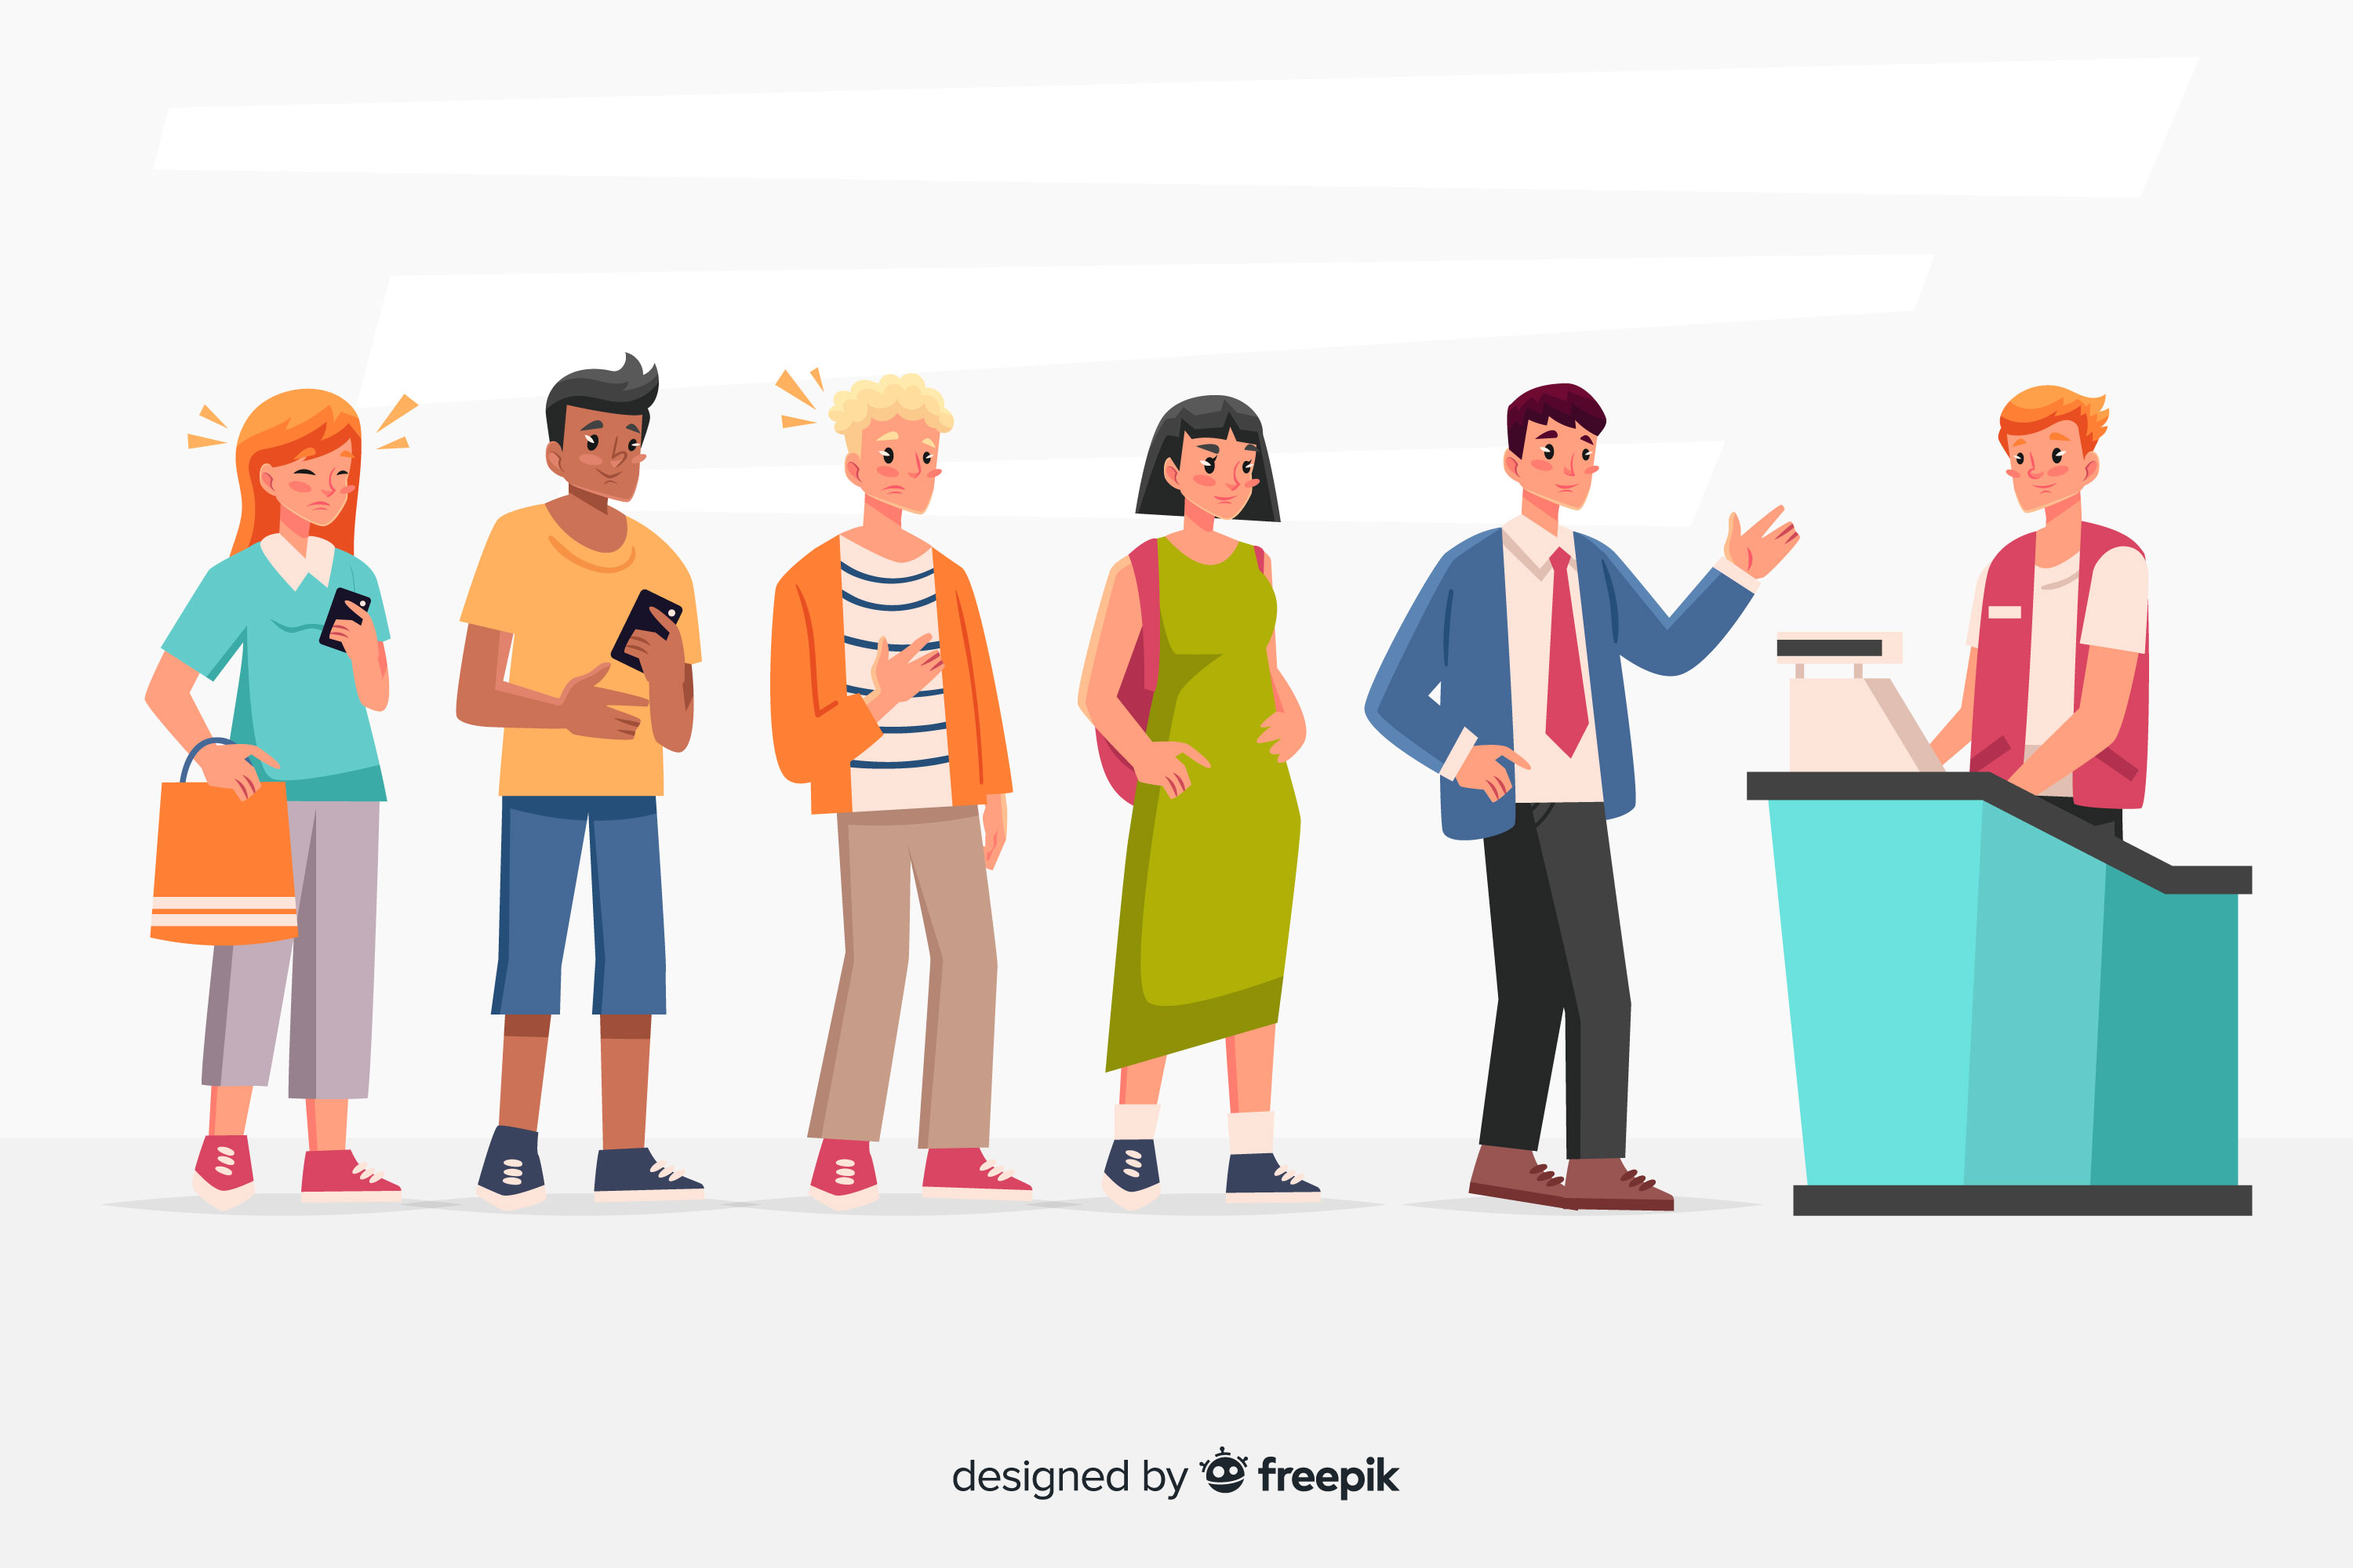
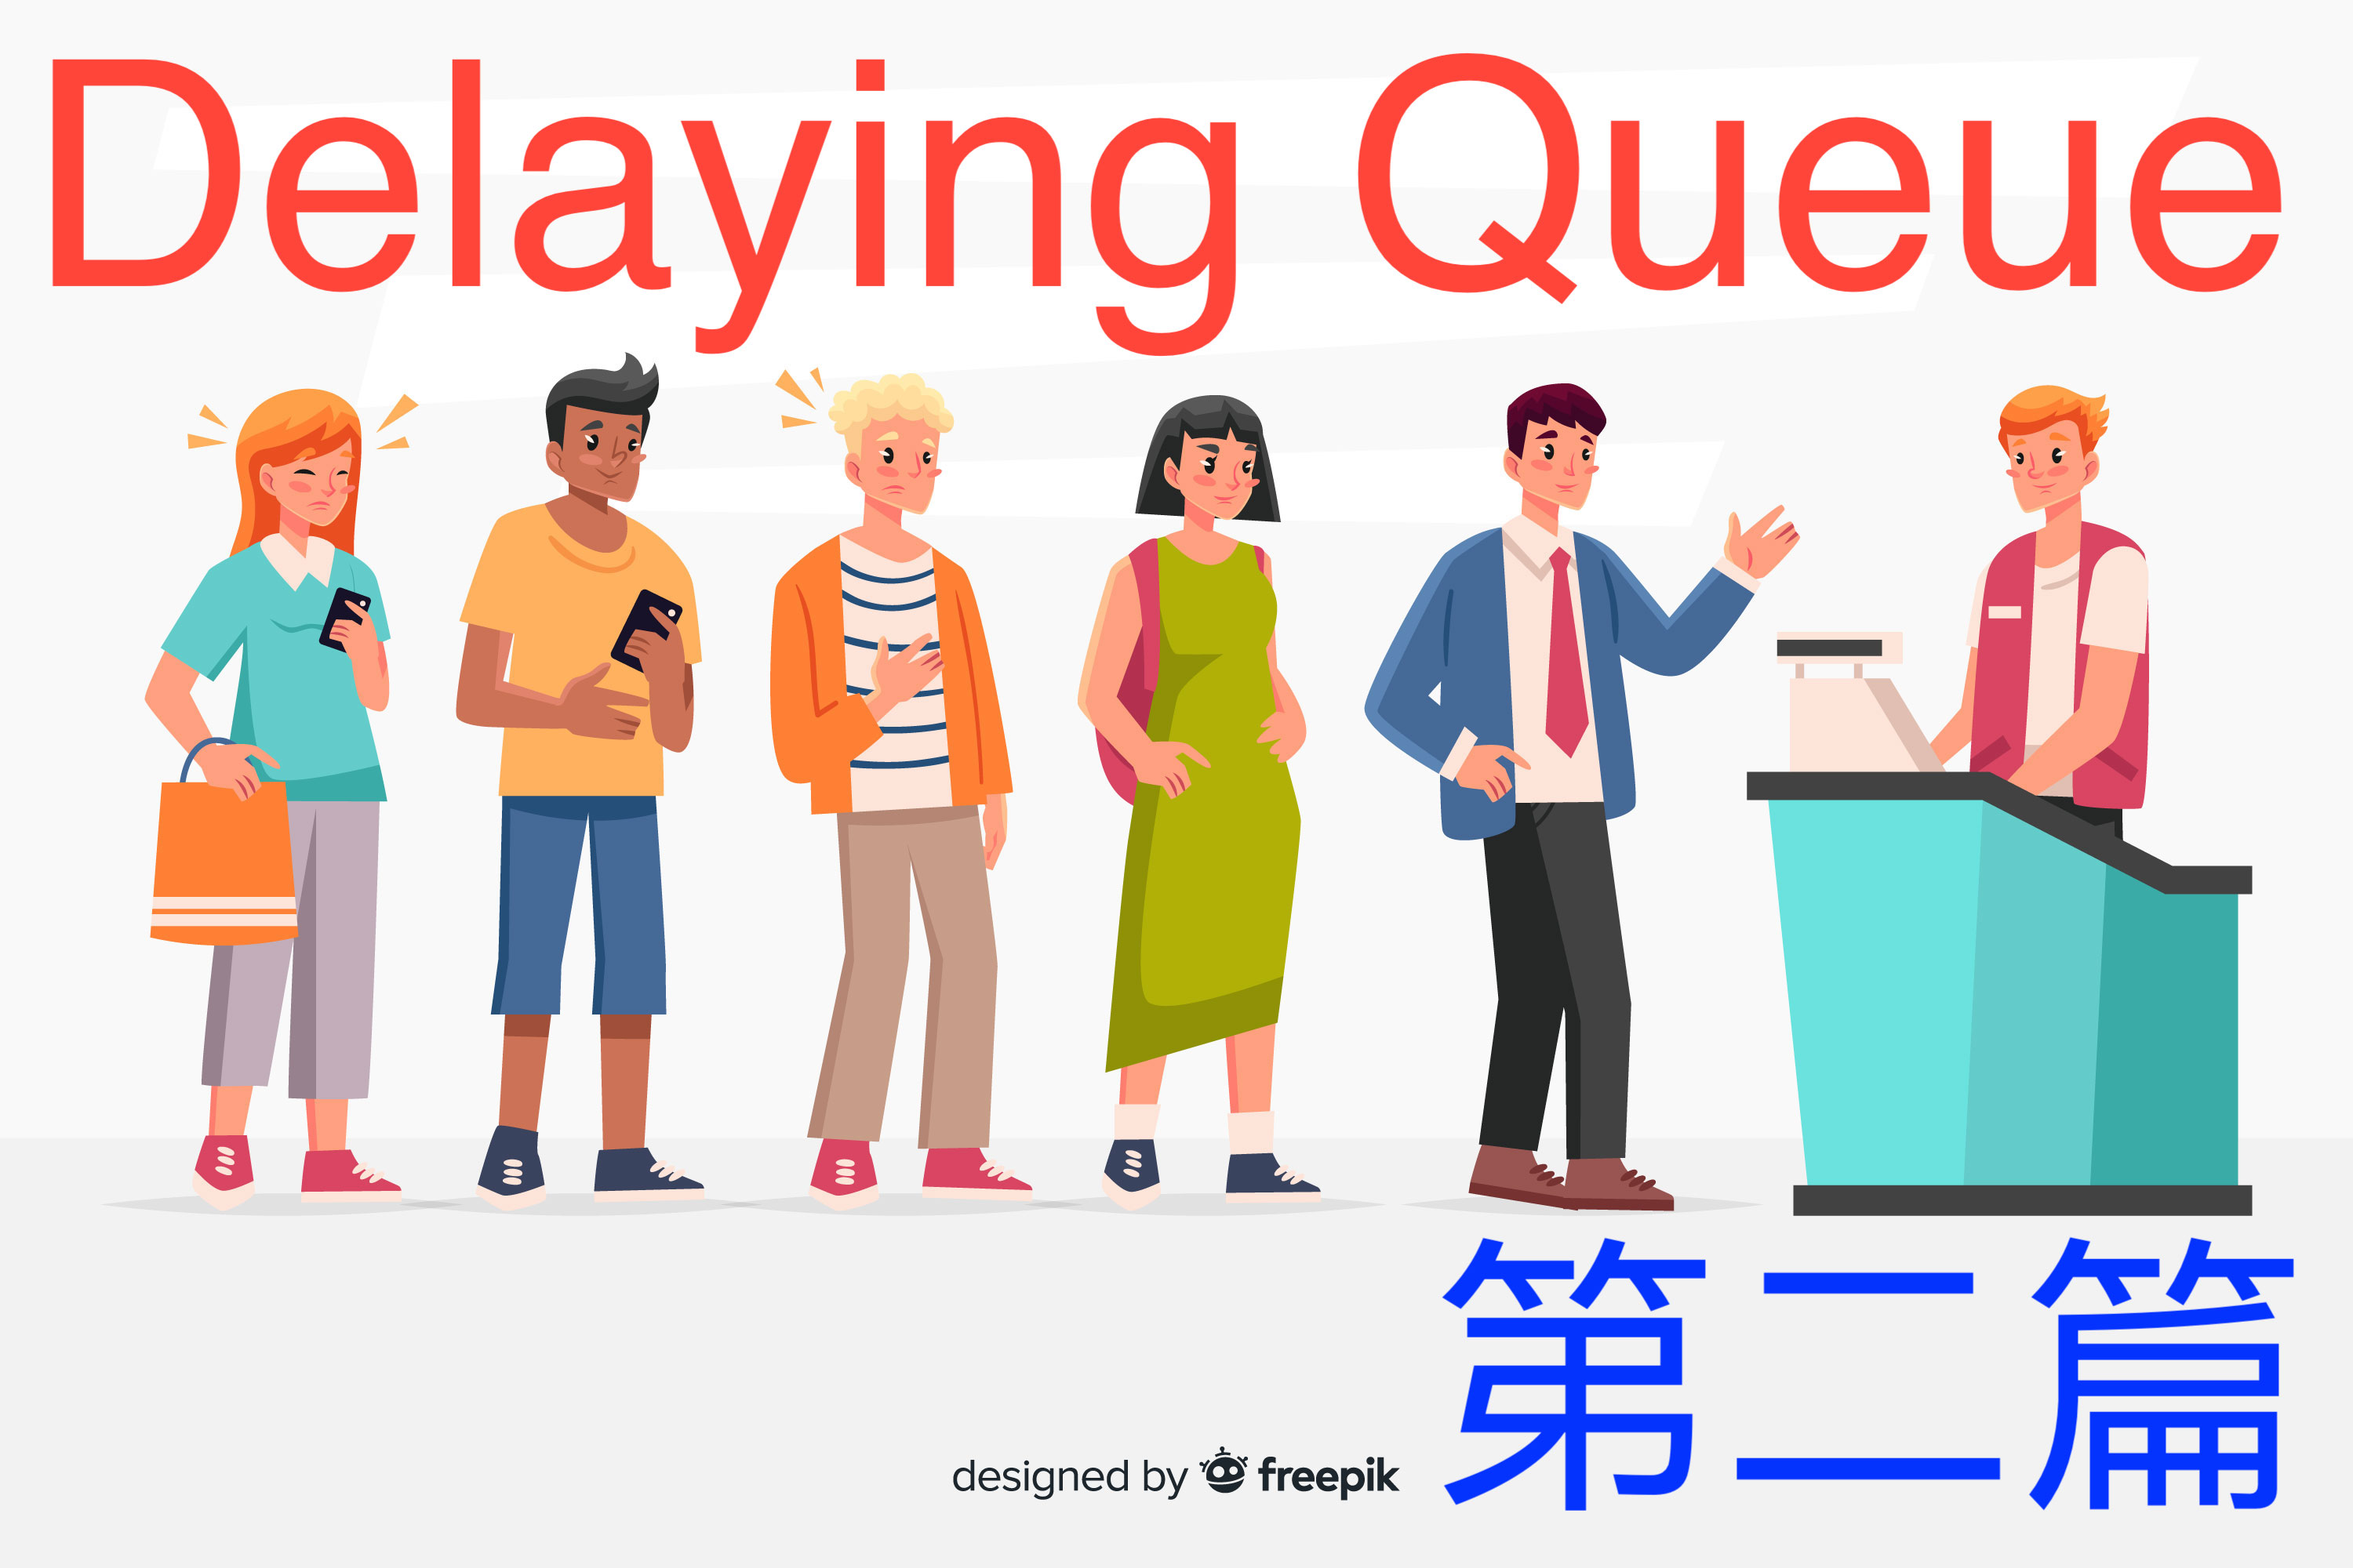
update

Changed region(s): [[0.0, 0.031, 0.527, 0.248], [0.558, 0.031, 0.992, 0.186], [0.62, 0.775, 0.992, 0.961]]

diff --git a/posts/kubernetes/source-code/controller/queue/common/index.html b/posts/kubernetes/source-code/controller/queue/common/index.html
@@ -1278,7 +1278,7 @@
     "datePublished": "2020-12-10T10:29:32+08:00",
     "dateModified": "2020-12-10T10:29:32+08:00",
     "url" : "https://blog.jjmengze.website/posts/kubernetes/source-code/controller/queue/common/",
-    "description": "\u003cfigure\u003e     \u003cimg src=\"/images/theme/kubernetes-common-queue.jpg\"/\u003e  \u003c/figure\u003e",
+    "description": "\u003cfigure\u003e     \u003cimg src=\"/images/theme/kubernetes-common-work-queue.jpg\"/\u003e  \u003c/figure\u003e",
     "keywords": ["kubernetes","controller","source-code"],
     "mainEntityOfPage": {
       "@type": "WebPage",
@@ -1564,7 +1564,7 @@
     <article class="single__contents" data-dir="ltr" data-ani="true">
       
       <figure>
-    <img src="/images/theme/kubernetes-common-queue.jpg"/> 
+    <img src="/images/theme/kubernetes-common-work-queue.jpg"/> 
 </figure>
 
 <p>首先本文所以 source code 基於 kubernetes 1.19 版本，所有 source code 的為了版面的整潔會精簡掉部分 log 相關的程式碼，僅保留核心邏輯，如果有見解錯誤的地方，還麻煩觀看本文的大大們提出，感謝！</p>

diff --git a/posts/kubernetes/source-code/controller/queue/delaying/index.html b/posts/kubernetes/source-code/controller/queue/delaying/index.html
@@ -1278,7 +1278,7 @@
     "datePublished": "2020-12-11T12:29:32+08:00",
     "dateModified": "2020-12-11T12:29:32+08:00",
     "url" : "https://blog.jjmengze.website/posts/kubernetes/source-code/controller/queue/delaying/",
-    "description": "\u003cfigure\u003e     \u003cimg src=\"/images/theme/kubernetes-common-queue.jpg\"/\u003e  \u003c/figure\u003e",
+    "description": "\u003cfigure\u003e     \u003cimg src=\"/images/theme/kubernetes-delaying-queue.jpg\"/\u003e  \u003c/figure\u003e",
     "keywords": ["kubernetes","controller","source-code"],
     "mainEntityOfPage": {
       "@type": "WebPage",
@@ -1564,7 +1564,7 @@
     <article class="single__contents" data-dir="ltr" data-ani="true">
       
       <figure>
-    <img src="/images/theme/kubernetes-common-queue.jpg"/> 
+    <img src="/images/theme/kubernetes-delaying-queue.jpg"/> 
 </figure>
 
 <p>首先本文所以 source code 基於 kubernetes 1.19 版本，所有 source code 的為了版面的整潔會精簡掉部分 log 相關的程式碼，僅保留核心邏輯，如果有見解錯誤的地方，還麻煩觀看本文的大大們提出，感謝！</p>

diff --git a/categories/controller/index.html b/categories/controller/index.html
@@ -1557,7 +1557,7 @@
         <div class="summary-classic__text p2">
           
             <figure>
-    <img src="/images/theme/kubernetes-common-queue.jpg"/> 
+    <img src="/images/theme/kubernetes-delaying-queue.jpg"/> 
 </figure>
           
         </div>
@@ -1591,7 +1591,7 @@
         <div class="summary-classic__text p2">
           
             <figure>
-    <img src="/images/theme/kubernetes-common-queue.jpg"/> 
+    <img src="/images/theme/kubernetes-common-work-queue.jpg"/> 
 </figure>
           
         </div>

diff --git a/categories/kubernetes/index.html b/categories/kubernetes/index.html
@@ -1557,7 +1557,7 @@
         <div class="summary-classic__text p2">
           
             <figure>
-    <img src="/images/theme/kubernetes-common-queue.jpg"/> 
+    <img src="/images/theme/kubernetes-delaying-queue.jpg"/> 
 </figure>
           
         </div>
@@ -1591,7 +1591,7 @@
         <div class="summary-classic__text p2">
           
             <figure>
-    <img src="/images/theme/kubernetes-common-queue.jpg"/> 
+    <img src="/images/theme/kubernetes-common-work-queue.jpg"/> 
 </figure>
           
         </div>

diff --git a/categories/source-code/index.html b/categories/source-code/index.html
@@ -1557,7 +1557,7 @@
         <div class="summary-classic__text p2">
           
             <figure>
-    <img src="/images/theme/kubernetes-common-queue.jpg"/> 
+    <img src="/images/theme/kubernetes-delaying-queue.jpg"/> 
 </figure>
           
         </div>
@@ -1591,7 +1591,7 @@
         <div class="summary-classic__text p2">
           
             <figure>
-    <img src="/images/theme/kubernetes-common-queue.jpg"/> 
+    <img src="/images/theme/kubernetes-common-work-queue.jpg"/> 
 </figure>
           
         </div>

diff --git a/index.html b/index.html
@@ -1576,7 +1576,7 @@
         <div class="summary-classic__text p2">
           
             <figure>
-    <img src="/images/theme/kubernetes-common-queue.jpg"/> 
+    <img src="/images/theme/kubernetes-delaying-queue.jpg"/> 
 </figure>
           
         </div>
@@ -1610,7 +1610,7 @@
         <div class="summary-classic__text p2">
           
             <figure>
-    <img src="/images/theme/kubernetes-common-queue.jpg"/> 
+    <img src="/images/theme/kubernetes-common-work-queue.jpg"/> 
 </figure>
           
         </div>

diff --git a/posts/index.html b/posts/index.html
@@ -1556,7 +1556,7 @@
         <div class="summary-classic__text p2">
           
             <figure>
-    <img src="/images/theme/kubernetes-common-queue.jpg"/> 
+    <img src="/images/theme/kubernetes-delaying-queue.jpg"/> 
 </figure>
           
         </div>
@@ -1590,7 +1590,7 @@
         <div class="summary-classic__text p2">
           
             <figure>
-    <img src="/images/theme/kubernetes-common-queue.jpg"/> 
+    <img src="/images/theme/kubernetes-common-work-queue.jpg"/> 
 </figure>
           
         </div>

diff --git a/tags/controller/index.html b/tags/controller/index.html
@@ -1557,7 +1557,7 @@
         <div class="summary-classic__text p2">
           
             <figure>
-    <img src="/images/theme/kubernetes-common-queue.jpg"/> 
+    <img src="/images/theme/kubernetes-delaying-queue.jpg"/> 
 </figure>
           
         </div>
@@ -1591,7 +1591,7 @@
         <div class="summary-classic__text p2">
           
             <figure>
-    <img src="/images/theme/kubernetes-common-queue.jpg"/> 
+    <img src="/images/theme/kubernetes-common-work-queue.jpg"/> 
 </figure>
           
         </div>

diff --git a/tags/kubernetes/index.html b/tags/kubernetes/index.html
@@ -1557,7 +1557,7 @@
         <div class="summary-classic__text p2">
           
             <figure>
-    <img src="/images/theme/kubernetes-common-queue.jpg"/> 
+    <img src="/images/theme/kubernetes-delaying-queue.jpg"/> 
 </figure>
           
         </div>
@@ -1591,7 +1591,7 @@
         <div class="summary-classic__text p2">
           
             <figure>
-    <img src="/images/theme/kubernetes-common-queue.jpg"/> 
+    <img src="/images/theme/kubernetes-common-work-queue.jpg"/> 
 </figure>
           
         </div>

diff --git a/tags/source-code/index.html b/tags/source-code/index.html
@@ -1557,7 +1557,7 @@
         <div class="summary-classic__text p2">
           
             <figure>
-    <img src="/images/theme/kubernetes-common-queue.jpg"/> 
+    <img src="/images/theme/kubernetes-delaying-queue.jpg"/> 
 </figure>
           
         </div>
@@ -1591,7 +1591,7 @@
         <div class="summary-classic__text p2">
           
             <figure>
-    <img src="/images/theme/kubernetes-common-queue.jpg"/> 
+    <img src="/images/theme/kubernetes-common-work-queue.jpg"/> 
 </figure>
           
         </div>
